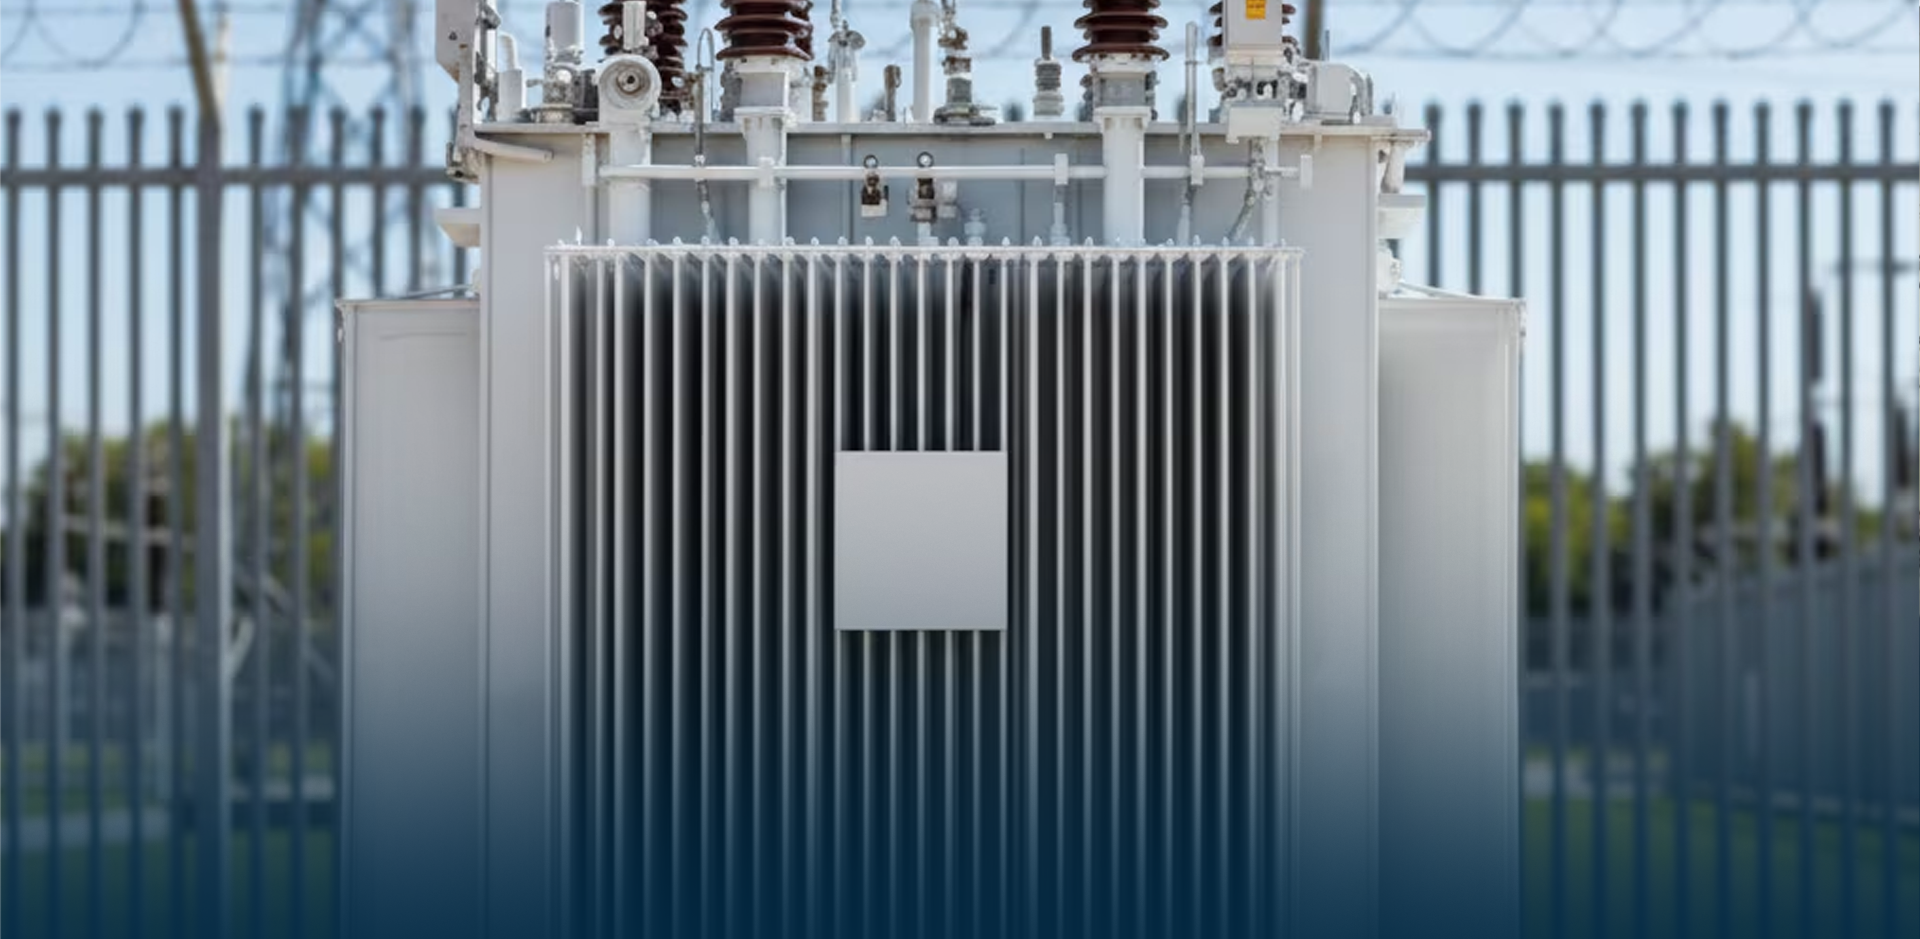
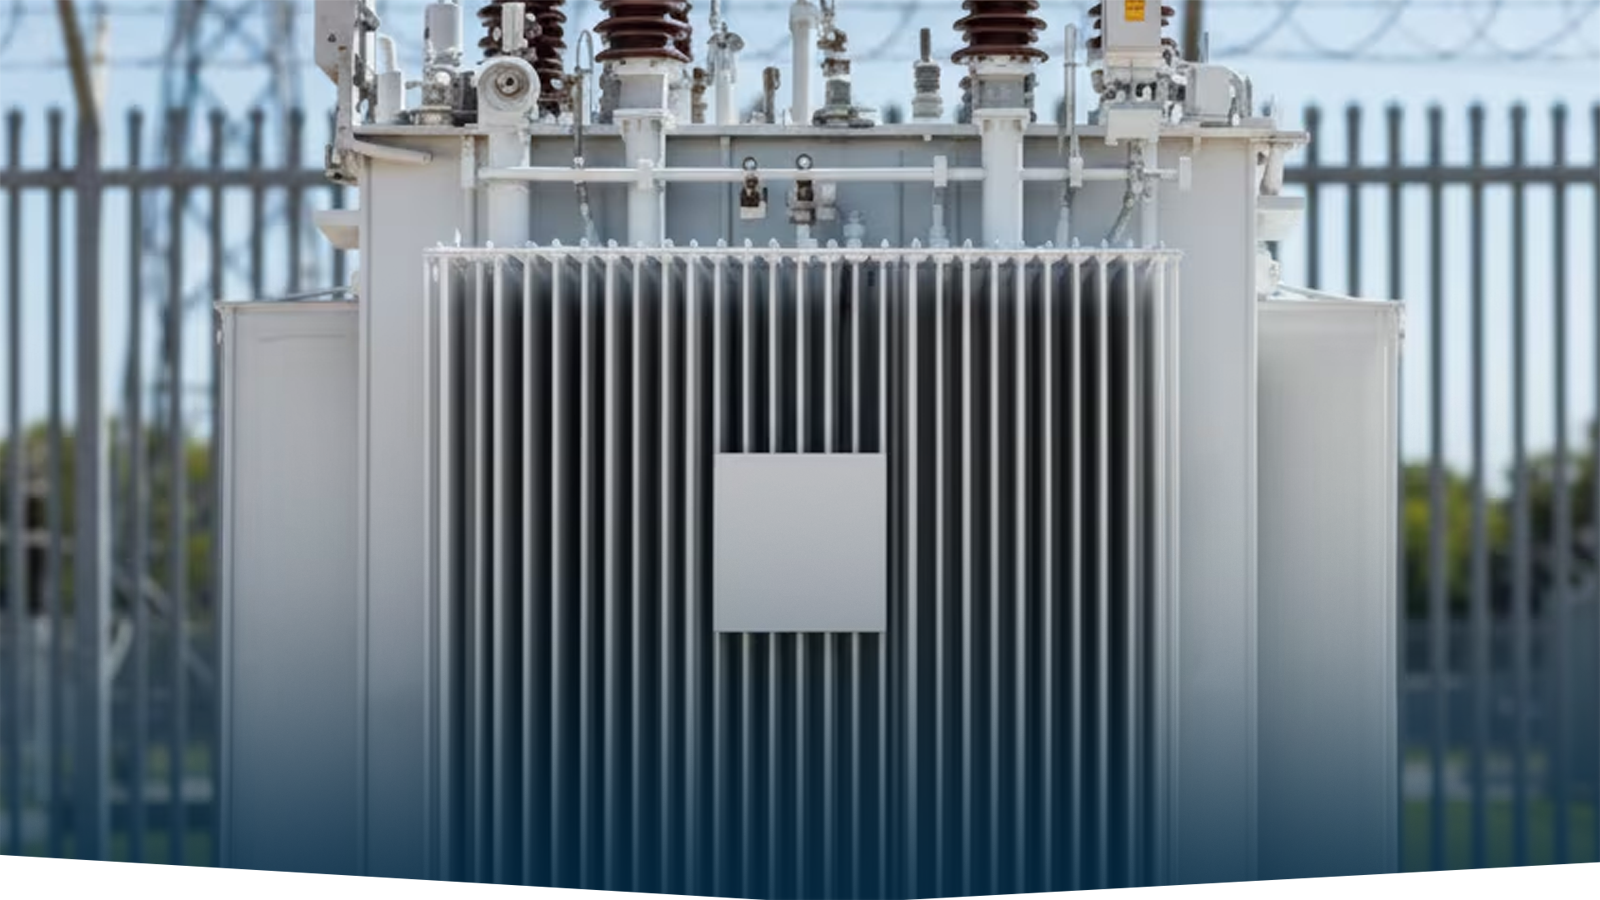
Sub Station Power Responsiveness added

diff --git a/src/components/us-market/SubStationPower.jsx b/src/components/us-market/SubStationPower.jsx
@@ -121,14 +121,16 @@ const SubStationPower = () => {
                     {/* Content */}
                     <div className="
                         w-[61%]
-                        flex flex-col gap-[1.25rem]
+                        flex flex-col
+                        gap-[1rem] sm:gap-[1rem] lg:gap-[1rem] xl:gap-[1.15rem] 2xl:gap-[1.25rem]
                     ">
                         {subStationData.map((item) => {
                             return(
                                 <div key={item.id} className="
                                     bg-[#f4f3f3]
-                                    p-[1rem]
-                                    flex justify-between gap-[1rem]
+                                    p-[1rem] sm:p-[1rem] lg:p-[0.8rem] xl:p-[0.9rem] 2xl:p-[1rem]
+                                    flex justify-between
+                                    gap-[1rem] sm:gap-[1rem] lg:gap-[0.8rem] xl:gap-[0.9rem] 2xl:gap-[1rem]
                                 ">
                                     <div className="w-[16%]">
                                         <img 
@@ -141,28 +143,29 @@ const SubStationPower = () => {
                                     <div className="w-[80%]">
                                         <span className="
                                             text-[#0a2946] font-[700] font-gilroy
-                                            text-[1.5rem]
+                                            text-[1.5rem] sm:text-[1.2rem] lg:text-[1.3rem] xl:text-[1.4rem] 2xl:text-[1.5rem]
                                         ">
                                             {item.title}
                                         </span>
                                         <div className="
-                                            mt-[1rem]
-                                            flex gap-[1rem]
+                                            mt-[1rem] sm:mt-[1rem] lg:mt-[0.8rem] xl:mt-[0.9rem] 2xl:mt-[1rem]
+                                            gap-[1rem] sm:gap-[1rem] lg:gap-[0.8rem] xl:gap-[0.9rem] 2xl:gap-[1rem]
+                                            flex
                                         ">
                                             {item.range.map((range) => {
                                                 return (
                                                     <div key={range.id} className="
                                                         bg-[#0a2946] text-[#fff]
-                                                        px-[1rem]
+                                                        px-[1rem] sm:px-[1rem] lg:px-[0.8rem] xl:px-[0.9rem] 2xl:px-[1rem]
                                                         py-[0.2rem]
                                                     ">
                                                         <span className="
-                                                            text-[0.75rem]    
+                                                            text-[0.7rem] sm:text-[0.55rem] lg:text-[0.55rem] xl:text-[0.65rem] 2xl:text-[0.75rem]
                                                         ">
                                                             {range.head}
                                                         </span>
                                                         <p className="
-                                                            text-[0.95rem]
+                                                            text-[0.9rem] sm:text-[0.65rem] lg:text-[0.75rem] xl:text-[0.85rem] 2xl:text-[0.95rem]
                                                             mt-[0.2rem]
                                                         ">
                                                             {range.value}

diff --git a/src/components/us-market/PadMounted.jsx b/src/components/us-market/PadMounted.jsx
@@ -14,7 +14,7 @@ const PadMounted = () => {
                     w-[50%]
                 ">
                     <h2 className="
-                        text-[1.5rem] sm:text-[2.2rem] lg:text-[2.4rem] xl:text-[2.7rem] 2xl:text-[2.8rem]
+                        text-[1.5rem] sm:text-[2.2rem] lg:text-[2.2rem] xl:text-[2.5rem] 2xl:text-[2.8rem]
                         text-[#0a2946] font-[600]
                     ">
                         PAD-MOUNTED DISTRIBUTION TRANSFORMERS (standard US distribution method)
